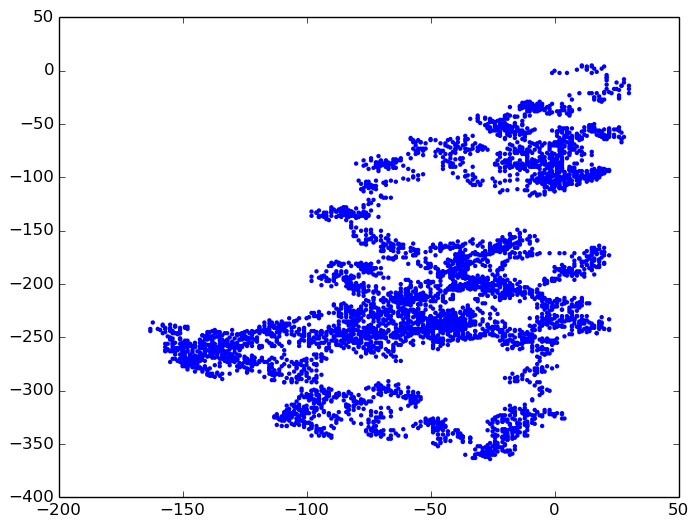
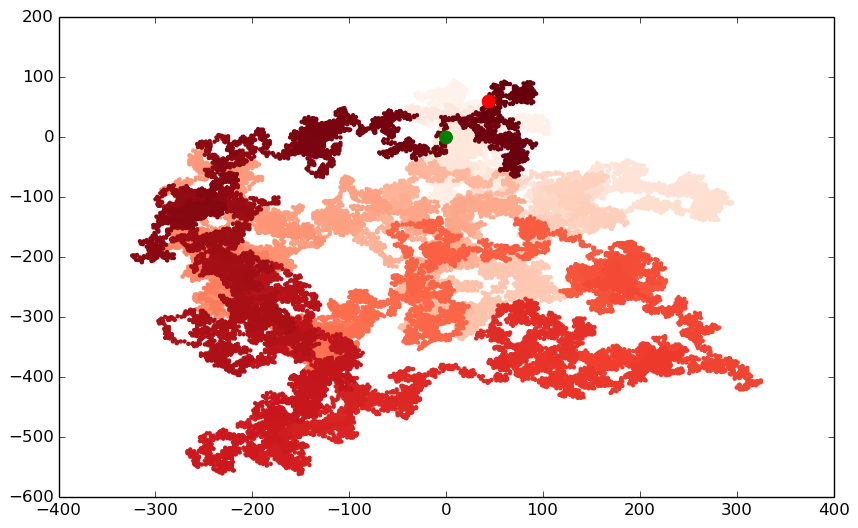
Random walk module init

diff --git a/mrw_visual.py b/mrw_visual.py
@@ -1,12 +1,16 @@
-#multiple random walk
+#multiple random walk and styling
 import matplotlib.pyplot as plt
 from random_walk import RandomWalk
 
 while True:
-    mrw = RandomWalk() #we create a random walk and store it in rw
+    mrw = RandomWalk(50000) #we create a random walk and store it in rw
     mrw.fill_walk()
-
-    plt.scatter(mrw.x_values, mrw.y_values,c='Blue', edgecolor='none', s=10) #c=rw.y_values, cmap=plt.cm.Reds
+    plt.figure(dpi=128, figsize=(10, 6)) #it control width, height, background, resolution
+    point_number = list(range(mrw.num_points))
+    plt.scatter(mrw.x_values, mrw.y_values,c=point_number, cmap=plt.cm.Reds, edgecolor='none', s=10)
+    #Emphasis the first and last points
+    plt.scatter(0, 0, c='green', edgecolor='none', s=100) #starting point in Green
+    plt.scatter(mrw.x_values[-1], mrw.y_values[-1], c='red', edgecolors='none', s=100) #ending point in Red
     plt.savefig('mrw.png', bbox_inches='tight')
     plt.show()
 

diff --git a/rw_visual.py b/rw_visual.py
@@ -5,6 +5,6 @@ from random_walk import RandomWalk
 rw = RandomWalk() #we create a random walk and store it in rw
 rw.fill_walk()
 
-plt.scatter(rw.x_values, rw.y_values,c='Red', edgecolor='none', s=10) #c=rw.y_values, cmap=plt.cm.Reds
+plt.scatter(rw.x_values, rw.y_values,c='Red', edgecolors='none', s=10) #c=rw.y_values, cmap=plt.cm.Reds
 plt.savefig('rw.png', bbox_inches='tight')
 plt.show()
